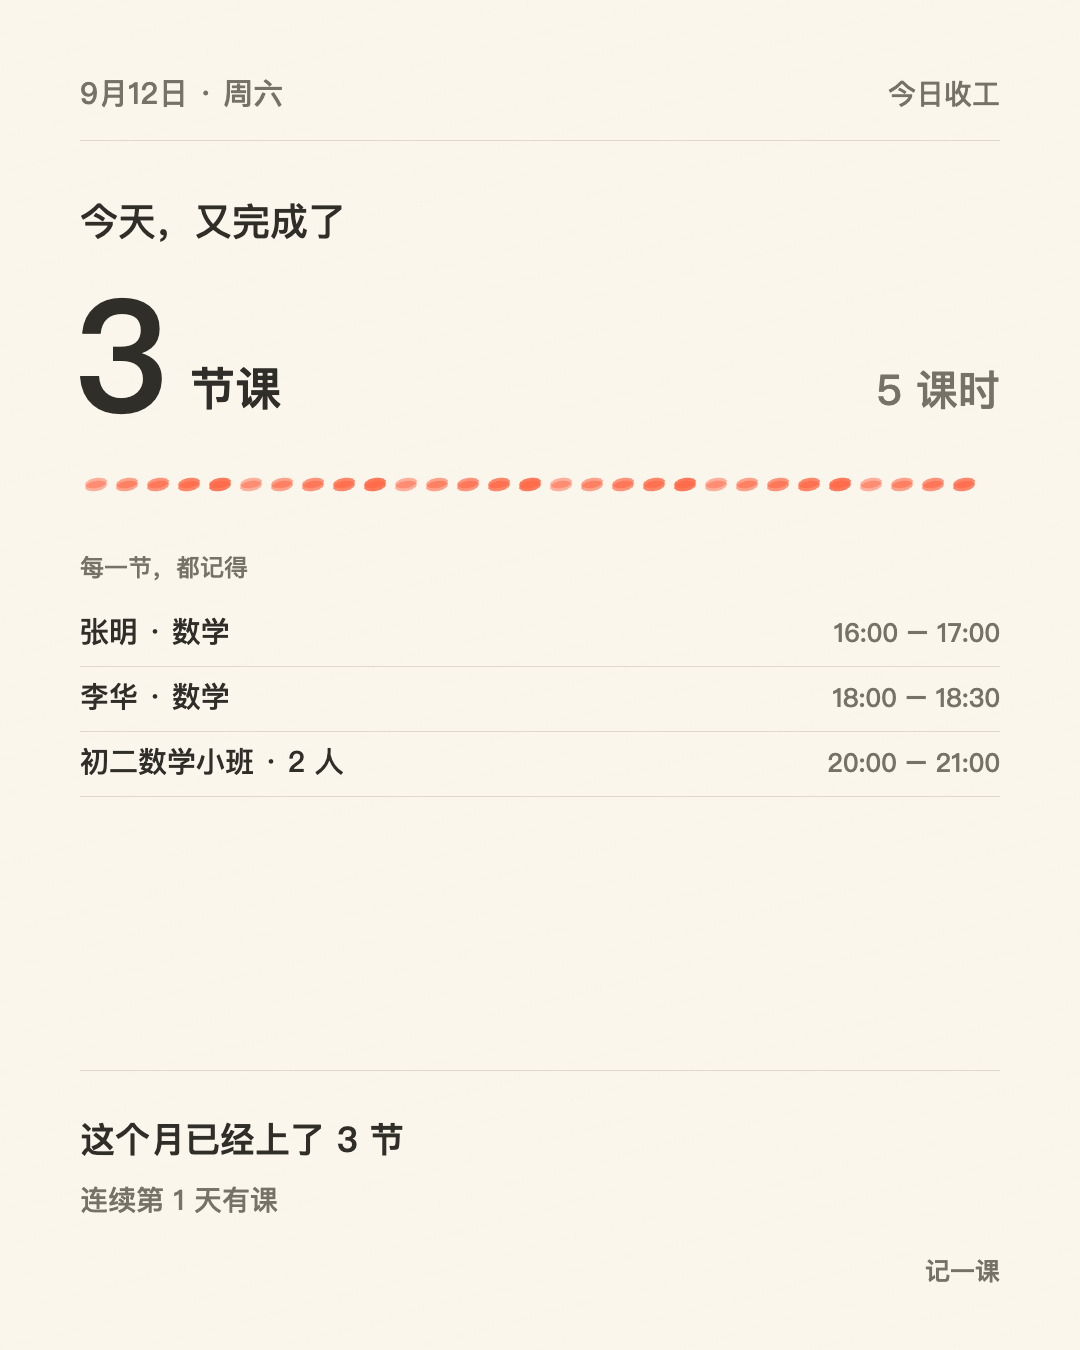
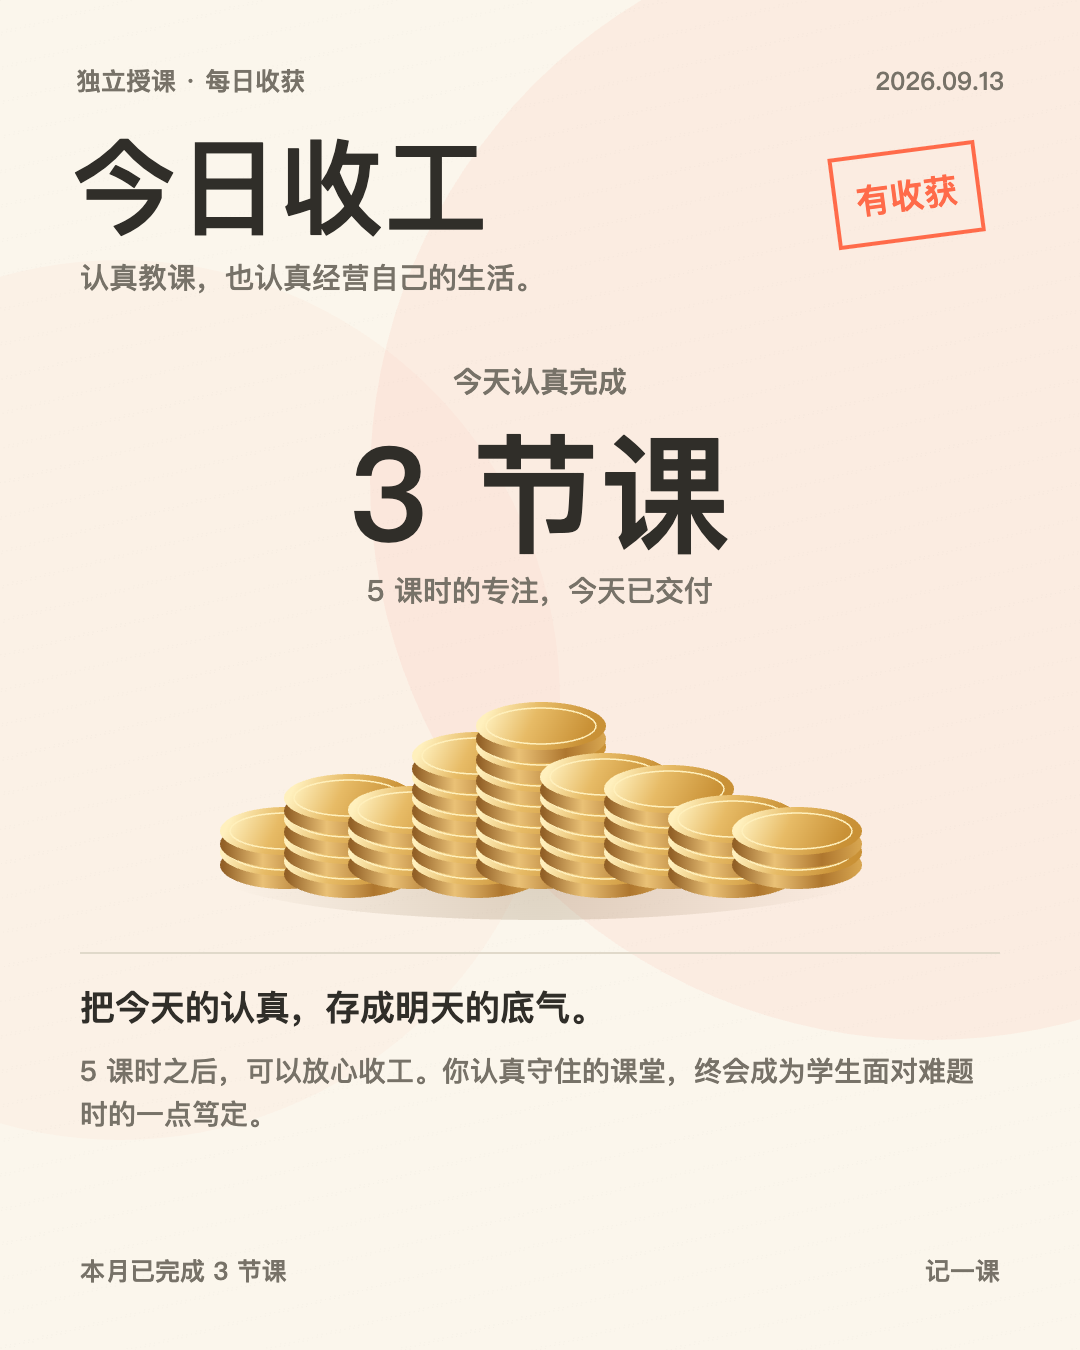
feat: redesign closing poster with optional income

diff --git a/src/ui/widgets/closing-poster.ts b/src/ui/widgets/closing-poster.ts
@@ -1,50 +1,77 @@
 import type { ClosingDayData } from "@/core/closing-day";
 
 export interface PosterPalette { paper: string; ink: string; muted: string; line: string; accent: string }
-export function drawClosingPoster(canvas: HTMLCanvasElement, d: ClosingDayData, colors: PosterPalette, watermark: boolean) {
+export interface PosterOptions { showIncome?: boolean; income?: number; encouragement?: string }
+
+export function drawClosingPoster(canvas: HTMLCanvasElement, d: ClosingDayData, colors: PosterPalette, watermark: boolean, options: PosterOptions = {}) {
   canvas.width = 1080; canvas.height = 1350;
   const ctx = canvas.getContext("2d");
   if (!ctx) throw new Error("无法绘制海报，请重新打开收工卡片");
   const font = (weight: number, size: number) => `${weight} ${size}px -apple-system, "PingFang SC", system-ui, sans-serif`;
-  const text = (value: string, x: number, y: number, size: number, weight = 500, color = colors.ink) => { ctx.font = font(weight, size); ctx.fillStyle = color; ctx.fillText(value, x, y); };
-  const fit = (value: string, width: number) => {
-    if (ctx.measureText(value).width <= width) return value;
-    let out = value;
-    while (out.length && ctx.measureText(out + "…").width > width) out = out.slice(0, -1);
-    return out + "…";
+  const text = (value: string, x: number, y: number, size: number, weight = 500, color = colors.ink) => {
+    ctx.font = font(weight, size); ctx.fillStyle = color; ctx.fillText(value, x, y);
+  };
+  const ellipse = (x: number, y: number, rx: number, ry: number, color: string | CanvasGradient) => {
+    ctx.fillStyle = color; ctx.beginPath(); ctx.ellipse(x, y, rx, ry, 0, 0, Math.PI * 2); ctx.fill();
   };
   ctx.fillStyle = colors.paper; ctx.fillRect(0, 0, 1080, 1350);
-  // Deterministic fine grain, rendered once into the exported bitmap.
-  ctx.fillStyle = colors.ink; ctx.globalAlpha = 0.018;
-  for (let i = 0; i < 12000; i++) ctx.fillRect((i * 73.13) % 1080, (i * 119.71) % 1350, 1, 1);
+  // Local, deterministic artwork: no image downloads or student details in exports.
+  ctx.globalAlpha = 0.07;
+  ellipse(930, 480, 560, 560, colors.accent);
+  ctx.globalAlpha = 0.035;
+  ellipse(120, 700, 440, 440, colors.accent);
+  ctx.fillStyle = colors.ink; ctx.globalAlpha = 0.025;
+  for (let i = 0; i < 16000; i++) ctx.fillRect((i * 73.13) % 1080, (i * 119.71) % 1350, 1, 1);
   ctx.globalAlpha = 1;
-  const date = new Date(d.date + "T00:00:00");
-  text(`${date.getMonth() + 1}月${date.getDate()}日 · 周${"日一二三四五六"[date.getDay()]}`, 80, 104, 30, 500, colors.muted);
-  ctx.textAlign = "right"; text("今日收工", 1000, 104, 28, 500, colors.muted); ctx.textAlign = "left";
-  ctx.fillStyle = colors.line; ctx.fillRect(80, 140, 920, 1);
-  text("今天，又完成了", 80, 235, 38, 500);
-  text(String(d.lessons), 74, 412, 156, 700);
-  ctx.font = font(700, 156); const numberWidth = ctx.measureText(String(d.lessons)).width;
-  text("节课", 96 + numberWidth, 405, 46, 600);
-  ctx.textAlign = "right"; text(`${Number(d.units.toFixed(2))} 课时`, 1000, 405, 42, 500, colors.muted); ctx.textAlign = "left";
-  for (let i = 0; i < 29; i++) {
-    ctx.fillStyle = colors.accent; ctx.globalAlpha = 0.5 + (i % 5) * 0.1;
-    ctx.beginPath(); ctx.ellipse(96 + i * 31, 486, 11, 5, -0.18, 0, Math.PI * 2); ctx.fill();
-    ctx.beginPath(); ctx.ellipse(96 + i * 31, 483, 11, 5, -0.18, 0, Math.PI * 2); ctx.fill();
+  text("独立授课 · 每日收获", 76, 90, 25, 600, colors.muted);
+  ctx.textAlign = "right"; text(d.date.replaceAll("-", "."), 1004, 90, 25, 500, colors.muted); ctx.textAlign = "left";
+  text("今日收工", 72, 225, 104, 800);
+  text("认真教课，也认真经营自己的生活。", 80, 288, 29, 500, colors.muted);
+  ctx.save(); ctx.translate(907, 198); ctx.rotate(-0.13);
+  ctx.strokeStyle = colors.accent; ctx.lineWidth = 4; ctx.strokeRect(-72, -47, 144, 88);
+  ctx.textAlign = "center"; text("有收获", 0, 10, 34, 700, colors.accent); ctx.restore();
+
+  ctx.textAlign = "center";
+  text(options.showIncome ? "今日授课收入" : "今天认真完成", 540, 392, 29, 600, colors.muted);
+  const headline = options.showIncome ? `¥${(options.income ?? 0).toLocaleString("zh-CN", { maximumFractionDigits: 2 })}` : `${d.lessons} 节课`;
+  let size = 130;
+  ctx.font = font(800, size);
+  while (ctx.measureText(headline).width > 910 && size > 36) { size -= 2; ctx.font = font(800, size); }
+  text(headline, 540, 541, size, 800);
+  text(options.showIncome ? `完成 ${d.lessons} 节课  /  ${Number(d.units.toFixed(2))} 课时` : `${Number(d.units.toFixed(2))} 课时的专注，今天已交付`, 540, 601, 29, 500, colors.muted);
+
+  // Fixed decorative pile: hiding income must not leak its magnitude through artwork.
+  const shadow = ctx.createRadialGradient(540, 867, 20, 540, 867, 310);
+  shadow.addColorStop(0, "#72532935"); shadow.addColorStop(1, "#72532900");
+  ellipse(540, 867, 335, 53, shadow);
+  for (let stack = 0; stack < 9; stack++) {
+    const x = 285 + stack * 64;
+    const count = [2, 4, 3, 6, 7, 5, 4, 3, 2][stack]!;
+    for (let level = 0; level < count; level++) {
+      const y = 852 - level * 21 + (stack % 2) * 9;
+      const edge = ctx.createLinearGradient(x - 62, y, x + 62, y);
+      edge.addColorStop(0, "#926026"); edge.addColorStop(0.32, "#eac176"); edge.addColorStop(0.7, "#ae762e"); edge.addColorStop(1, "#d6a44f");
+      ellipse(x, y + 13, 65, 24, edge);
+      const face = ctx.createLinearGradient(x - 50, y - 22, x + 40, y + 20);
+      face.addColorStop(0, "#fff0bd"); face.addColorStop(0.45, "#e7bb66"); face.addColorStop(1, "#c99136");
+      ellipse(x, y, 65, 24, face);
+      ctx.strokeStyle = "#fff0bc"; ctx.lineWidth = 1.5;
+      ctx.beginPath(); ctx.ellipse(x, y, 55, 18, 0, 0, Math.PI * 2); ctx.stroke();
+    }
   }
-  ctx.globalAlpha = 1;
-  text("每一节，都记得", 80, 576, 24, 500, colors.muted);
-  const maxRows = 6;
-  const visible = d.rows.slice(0, d.rows.length > maxRows ? maxRows - 1 : maxRows);
-  visible.forEach((row, i) => {
-    const y = 642 + i * 65;
-    ctx.font = font(500, 29); text(fit(row.title, 620), 80, y, 29);
-    ctx.textAlign = "right"; text(`${row.start} – ${row.end}`, 1000, y, 26, 500, colors.muted); ctx.textAlign = "left";
-    ctx.fillStyle = colors.line; ctx.fillRect(80, y + 24, 920, 1);
-  });
-  if (d.rows.length > maxRows) text(`另有 ${d.rows.length - visible.length} 节课`, 80, 642 + visible.length * 65, 28, 500, colors.muted);
-  ctx.fillStyle = colors.line; ctx.fillRect(80, 1070, 920, 1);
-  text(`这个月已经上了 ${d.monthLessons} 节`, 80, 1152, 35, 600);
-  text(`连续第 ${d.streak} 天有课`, 80, 1210, 28, 500, colors.muted);
-  if (watermark) { ctx.textAlign = "right"; text("记一课", 1000, 1280, 25, 600, colors.muted); ctx.textAlign = "left"; }
+  ctx.textAlign = "left";
+  ctx.fillStyle = colors.line; ctx.fillRect(80, 952, 920, 2);
+  text("把今天的认真，存成明天的底气。", 80, 1020, 35, 700);
+  const quote = options.encouragement || "你认真上完的每一节课，都在为自己的生活积攒底气。";
+  ctx.font = font(500, 28);
+  const lines: string[] = []; let line = "";
+  for (const char of quote) {
+    if (ctx.measureText(line + char).width > 900 && line) { lines.push(line); line = char; }
+    else line += char;
+  }
+  if (line) lines.push(line);
+  lines.slice(0, 4).forEach((value, i) => text(value, 80, 1081 + i * 43, 28, 500, colors.muted));
+  text(`本月已完成 ${d.monthLessons} 节课`, 80, 1280, 25, 600, colors.muted);
+  if (watermark) { ctx.textAlign = "right"; text("记一课", 1000, 1280, 25, 600, colors.muted); }
+  ctx.textAlign = "left";
 }

diff --git a/src/ui/widgets/ClosingDaySheet.tsx b/src/ui/widgets/ClosingDaySheet.tsx
@@ -4,6 +4,7 @@ import QRCode from "qrcode";
 import { useStore } from "@/store";
 import { closingDayData } from "@/core/closing-day";
 import { closingEncouragement } from "@/core/closing-encouragement";
+import { confirmedIncome } from "@/core/finance";
 import { todayISO } from "@/core/date";
 import type { LanAddress } from "@/core/poster-share-types";
 import { platform, isApp } from "@/platform";
@@ -20,6 +21,7 @@ export function ClosingDaySheet({ onClose }: { onClose: () => void }) {
   const session = useRef<string | undefined>(undefined);
   const generation = useRef(0);
   const [poster, setPoster] = useState("");
+  const [showIncome, setShowIncome] = useState(false);
   const [qr, setQr] = useState("");
   const [addresses, setAddresses] = useState<LanAddress[]>([]);
   const [address, setAddress] = useState("");
@@ -76,7 +78,11 @@ export function ClosingDaySheet({ onClose }: { onClose: () => void }) {
       const css = getComputedStyle(host.current);
       const color = (name: string) => css.getPropertyValue(name).trim();
       const canvas = document.createElement("canvas");
-      drawClosingPoster(canvas, data, { paper: color("--poster-paper"), ink: color("--poster-ink"), muted: color("--poster-muted"), line: color("--poster-line"), accent: color("--accent") }, watermark);
+      drawClosingPoster(canvas, data, { paper: color("--poster-paper"), ink: color("--poster-ink"), muted: color("--poster-muted"), line: color("--poster-line"), accent: color("--accent") }, watermark, {
+        showIncome,
+        income: confirmedIncome({ ...s, lessons: s.lessons.filter((lesson) => lesson.date === data.date) }),
+        encouragement,
+      });
       const image = canvas.toDataURL("image/png"); setPoster(image);
       if (isApp) await share(image);
       else setBusy(false);
@@ -88,6 +94,14 @@ export function ClosingDaySheet({ onClose }: { onClose: () => void }) {
   };
   return <MotionConfig reducedMotion="user"><Sheet open onClose={onClose} title="今天收工了" sub={`今天上了 ${data.lessons} 节课，${Number(data.units.toFixed(2))} 课时。`} wide>
     <div ref={host} className="closing-day">
+      <label className="closing-income-option">
+        <span>显示今日收入<small>展示授课核算金额，非今日到账</small></span>
+        <input type="checkbox" role="switch" checked={showIncome} disabled={busy} onChange={(e) => {
+          setShowIncome(e.target.checked);
+          generation.current++; setPoster(""); setQr(""); setExpiresAt(0); setMessage("");
+          void platform.posterShare.stop().catch(() => {});
+        }} />
+      </label>
       {poster ? <div className="closing-export">
         <img className="closing-poster" src={poster} alt={`${data.date} 收工海报`} />
         <div className="closing-share">

diff --git a/tests/closing-poster.test.ts b/tests/closing-poster.test.ts
@@ -4,19 +4,31 @@ import type { ClosingDayData } from "../src/core/closing-day";
 
 const data: ClosingDayData = { date: "2026-09-12", eligible: true, lessons: 9, units: 18, monthLessons: 23, streak: 12, rows: Array.from({length:9}, () => ({title:"非常非常非常长的课程名称与学员姓名".repeat(3), start:"18:00",end:"19:00",units:2})) };
 const palette = {paper:"white",ink:"black",muted:"gray",line:"gray",accent:"coral"};
-function render(watermark: boolean) {
+function render(watermark: boolean, showIncome = false, income = 1280) {
   const texts: string[] = [];
-  const ctx = { fillRect() {}, beginPath() {}, ellipse() {}, fill() {}, fillText(text: string) { texts.push(text); }, measureText(text: string) { return {width:text.length * 29}; } };
+  const gradient = () => ({ addColorStop() {} });
+  const ctx = { save() {}, restore() {}, translate() {}, rotate() {}, strokeRect() {}, stroke() {}, createLinearGradient: gradient, createRadialGradient: gradient, fillRect() {}, beginPath() {}, ellipse() {}, fill() {}, fillText(text: string) { texts.push(text); }, measureText(text: string) { return {width:text.length * 29}; } };
   const canvas = {width:0,height:0,getContext:()=>ctx} as unknown as HTMLCanvasElement;
-  drawClosingPoster(canvas,data,palette,watermark);
+  drawClosingPoster(canvas,data,palette,watermark, {showIncome, income, encouragement: "今天的认真，正在变成生活的底气。"});
   return {canvas,texts};
 }
 it("海报保持1080×1350并按权益绘制水印", () => {
   const free = render(true); expect(free.canvas.width).toBe(1080);expect(free.canvas.height).toBe(1350);expect(free.texts).toContain("记一课");
   expect(render(false).texts).not.toContain("记一课");
 });
-it("长名称省略，超长列表汇总，完整场次数不缩水", () => {
+it("默认隐藏收入和学员明细，突出课数并沿用收工励志语", () => {
   const {texts} = render(true);
-  expect(texts).toContain("另有 4 节课");expect(texts).toContain("9");
-  expect(texts.filter((t) => t.endsWith("…"))).toHaveLength(5);
+  expect(texts).toContain("9 节课");
+  expect(texts.join("")).not.toMatch(/¥|1,280|学员姓名|18:00/);
+  expect(texts.join("")).toContain("今天的认真，正在变成生活的底气。");
+});
+it("选择展示收入时，明确标注授课收入并保留教学工作量", () => {
+  const {texts} = render(true, true);
+  expect(texts).toContain("¥1,280");
+  expect(texts).toContain("今日授课收入");
+  expect(texts).toContain("完成 9 节课  /  18 课时");
+});
+it("收入支持零元与小数，不误标为到账", () => {
+  expect(render(true, true, 0).texts).toContain("¥0");
+  expect(render(true, true, 1280.5).texts).toContain("¥1,280.5");
 });

diff --git a/src/ui/widgets/closing-day.css b/src/ui/widgets/closing-day.css
@@ -1,4 +1,7 @@
 .closing-day { --poster-paper: #fbf6ec; --poster-ink: #302e29; --poster-muted: #777268; --poster-line: #e0d9ca; }
+.closing-income-option { display: flex; align-items: center; justify-content: space-between; gap: 16px; padding: 12px 14px; margin-bottom: 18px; background: var(--surface-2); border-radius: var(--radius); font-size: 13px; font-weight: 600; }
+.closing-income-option small { display: block; margin-top: 3px; color: var(--label-2); font-size: 11px; font-weight: 400; }
+.closing-income-option input { width: 19px; height: 19px; accent-color: var(--accent); }
 .closing-summary { position: relative; padding: 20px 0; text-align: center; overflow: hidden; }
 .closing-number { font: 700 72px var(--font-num); color: var(--label); margin-bottom: 20px; }
 .closing-number span { font: 500 20px var(--font-ui); }
